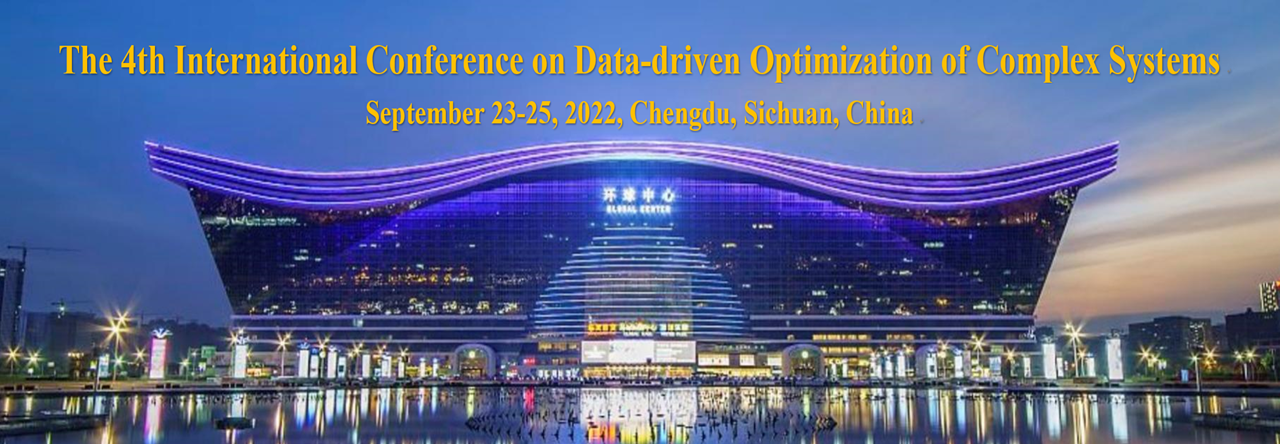
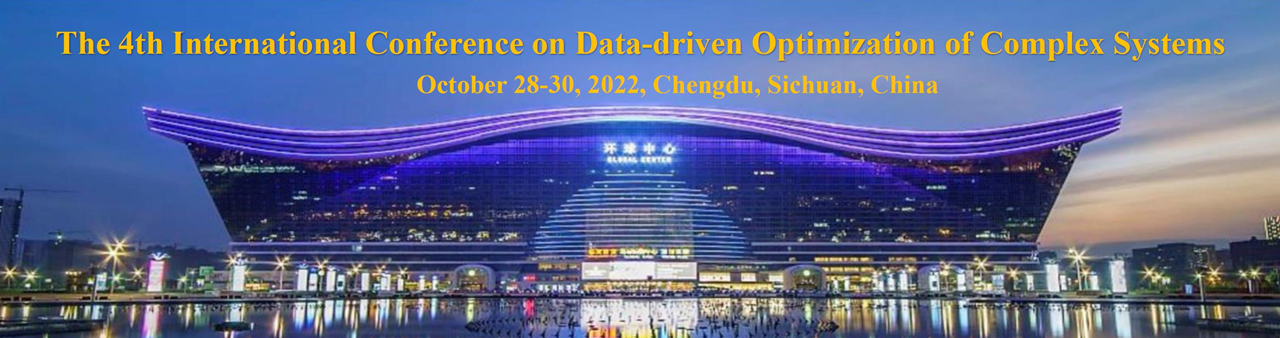
Add files via upload

diff --git a/web_home.htm b/web_home.htm
@@ -527,7 +527,7 @@
 
                     <p class="STYLE0" style="width: 1080px" align="justify">The 4th International Conference on
                         Data-driven Optimization of Complex Systems (DOCS2022) will be held on
-                        Sep. 23-25, 2022 in Chengdu, China. DOCS2022 aims to provide a high-level international forum for
+                        <b>Oct. 28-30, 2022</b> in Chengdu, China. DOCS2022 aims to provide a high-level international forum for
                         innovative
                         academics and industrial experts in the related fields of data-driven optimization and its
                         application to complex

diff --git a/web_timeline.htm b/web_timeline.htm
@@ -64,7 +64,7 @@
     </tr>
     <tr height="50">
         <td align="left">Conference</td>
-        <td class="STYLE10" align="right"> September 23-25, 2022</td>
+        <td class="STYLE10" align="right"> October 28-30, 2022</td>
     </tr>
     </tbody>
 </table>
